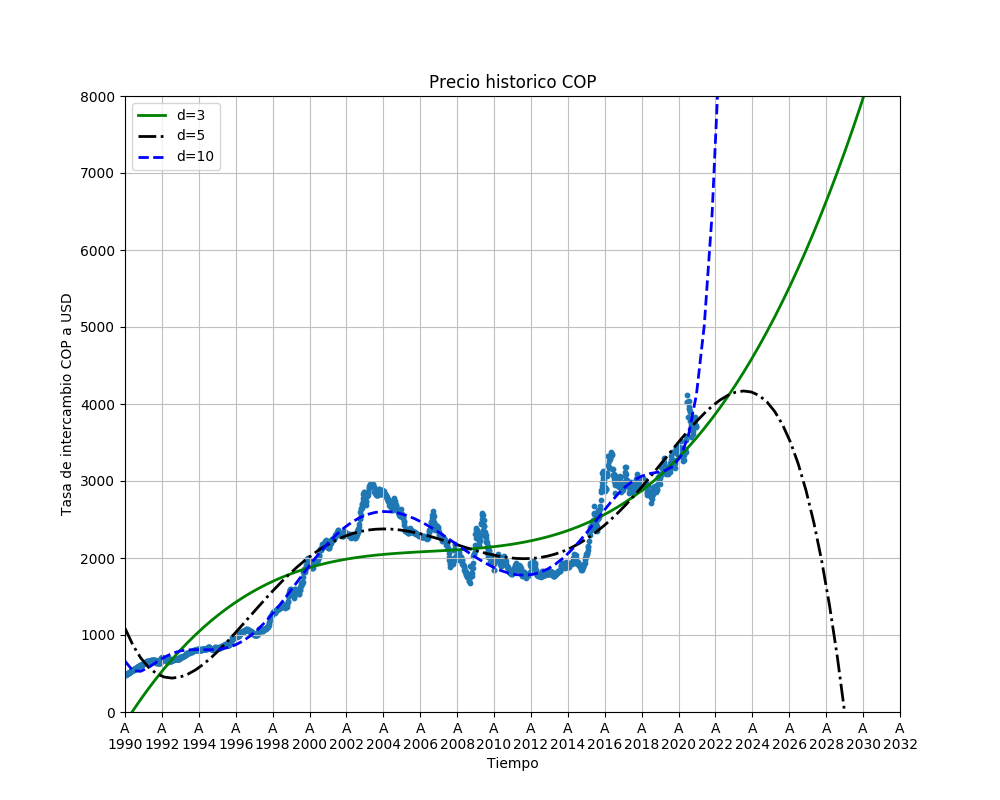
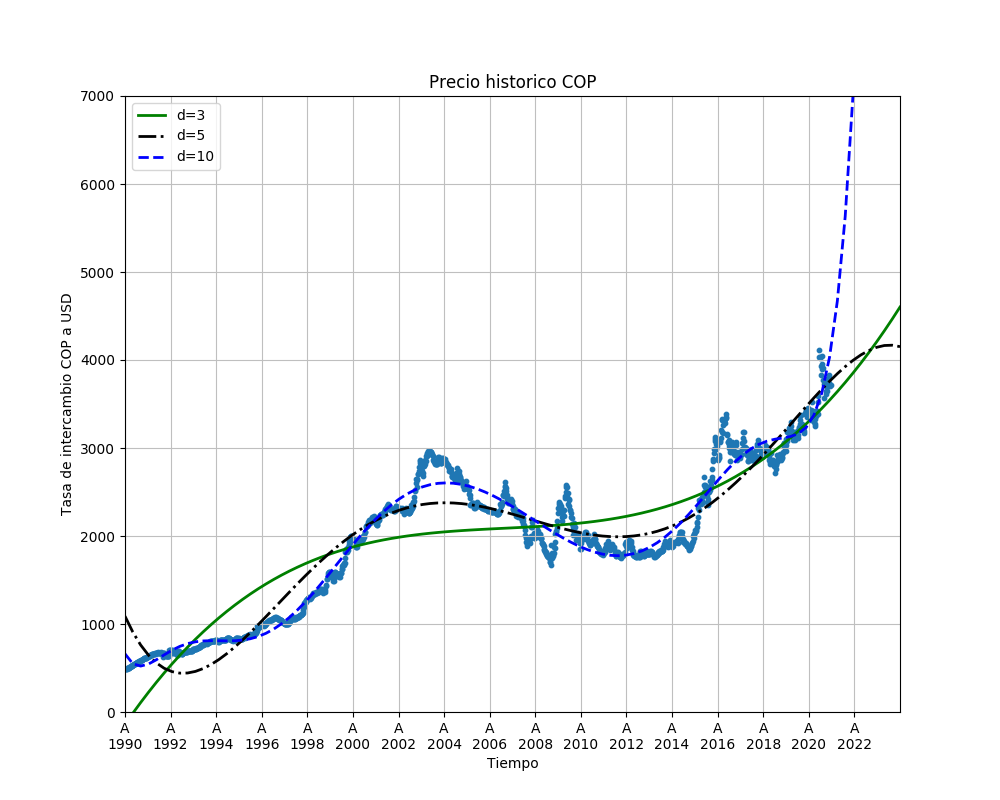
wip

diff --git a/Proyecto_Moneda_Colombiana/Definitiva/proyecto.py b/Proyecto_Moneda_Colombiana/Definitiva/proyecto.py
@@ -19,7 +19,7 @@ y = data[:, 1]
 print("Número de entradas incorrectas:", np.sum(np.isnan(y)))
 print(x)
 print(y)
-intervalo_tiempo = int(34 / 2)
+intervalo_tiempo = int(30 / 2)
 conversion_temporal = 52 * 2
 prediccion = 5000
 
@@ -38,8 +38,8 @@ def plot_models(x, y, models, fname, mx=None, ymax=None, xmin=None):
     plt.ylabel("Tasa de intercambio COP a USD")
 
     plt.xticks(
-        [w  * conversion_temporal for w in range(intervalo_tiempo + 10)],
-        ['A\n' +str(int(w*2+1990)) for w in range(intervalo_tiempo + 10)])
+        [w  * conversion_temporal for w in range(intervalo_tiempo+2)],
+        ['A\n' +str(int(w*2+1990)) for w in range(intervalo_tiempo+2)])
 
     if models:
         if mx is None:
@@ -101,8 +101,8 @@ print("Error de inflexión=%f" % (error(fa, xa, ya) + error(fb, xb, yb)))
 plot_models(
     x, y, [f3,f5, f10],
     os.path.join(CHART_DIR, "1400_01_06.png"),
-    mx=np.linspace(0 *conversion_temporal, (intervalo_tiempo + 4) * conversion_temporal , 100),
-    ymax=prediccion + 3000, xmin=0 * conversion_temporal)
+    mx=np.linspace(0 *conversion_temporal, (intervalo_tiempo + 2) * conversion_temporal , 100),
+    ymax=prediccion + 2000, xmin=0 * conversion_temporal)
 
 
 print("Entrenamiento de datos únicamente despúes del punto de inflexión")
@@ -120,8 +120,8 @@ for f in [fb1, fb2, fb3,fb5, fb10]:
 plot_models(
     x, y, [fb3,fb5, fb10],
     os.path.join(CHART_DIR, "1400_01_07.png"),
-    mx=np.linspace(0 * conversion_temporal, (intervalo_tiempo+4)*conversion_temporal, 100),
-    ymax=prediccion + 3000 , xmin=0 * conversion_temporal)
+    mx=np.linspace(0 * conversion_temporal, (intervalo_tiempo+2)*conversion_temporal, 100),
+    ymax=prediccion + 2000 , xmin=0 * conversion_temporal)
 
 frac = 0.3
 split_idx = int(frac * len(xb))
@@ -144,8 +144,8 @@ for f in [fbt1, fbt2, fbt3, fbt10, fbt100]:
 plot_models(
     x, y, [fbt3, fbt5, fbt10],
     os.path.join(CHART_DIR, "1400_01_08.png"),
-    mx=np.linspace(0 *conversion_temporal, (intervalo_tiempo+4)*conversion_temporal, 100),
-    ymax=prediccion + 3000 , xmin=0 *conversion_temporal)
+    mx=np.linspace(0 *conversion_temporal, (intervalo_tiempo+2)*conversion_temporal, 100),
+    ymax=prediccion + 2000 , xmin=0 *conversion_temporal)
 from scipy.optimize import fsolve
 print(fbt2)
 print(fbt2 - prediccion)
